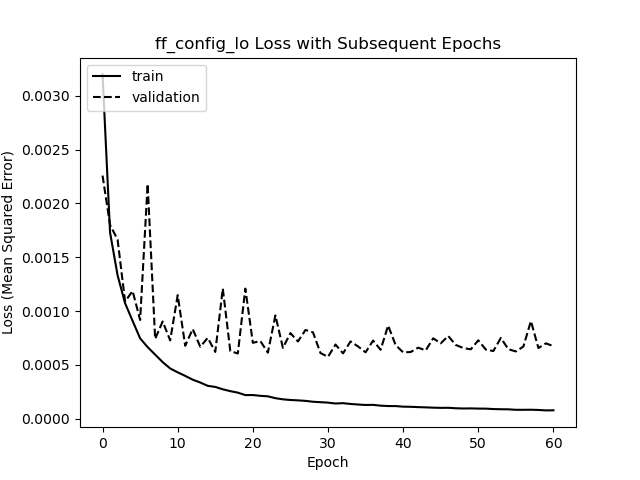
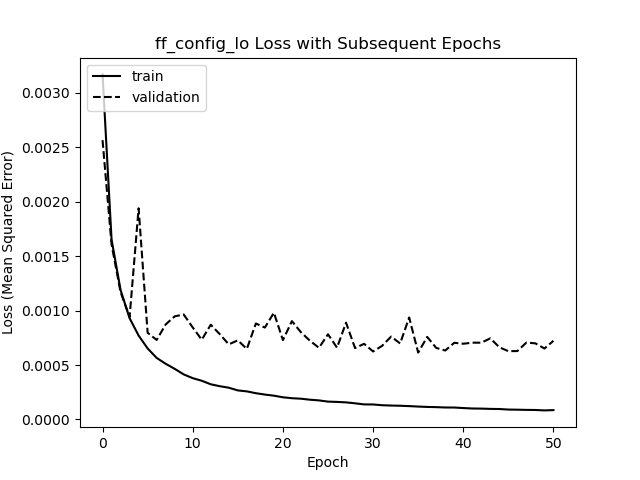
Training curves.

diff --git a/models/training.py b/models/training.py
@@ -127,7 +127,7 @@ def main():
         model.compile(optimizer = getattr(tf.keras.optimizers, config['compile']['optimizer'])(lr = config['compile']['learning_rate']),
                       loss = config['compile']['loss'], metrics = [r2_keras])
         history = model.fit(X_train, y_train, validation_data = (X_val, y_val), **config['fit'],
-                  callbacks = [tf.keras.callbacks.TensorBoard(), tf.keras.callbacks.EarlyStopping(patience = 30, restore_best_weights = True)])
+                  callbacks = [tf.keras.callbacks.TensorBoard(), tf.keras.callbacks.EarlyStopping(patience = 15, restore_best_weights = True)])
         model.save(model_file, save_format = 'h5')
 
         visuals.plot_loss(history, args.config.split('.')[0].split('/')[-1])
